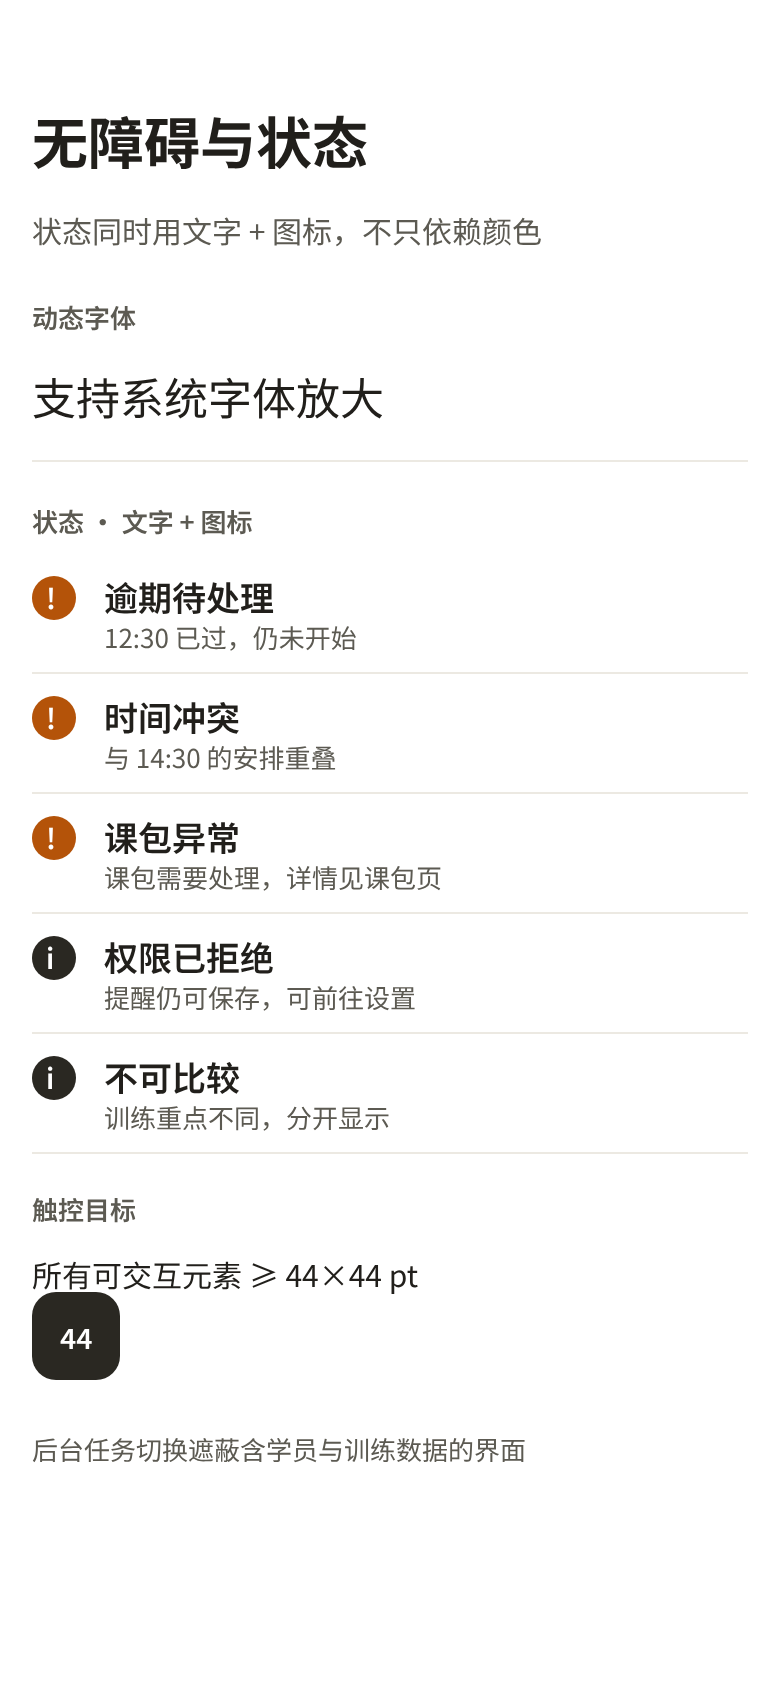
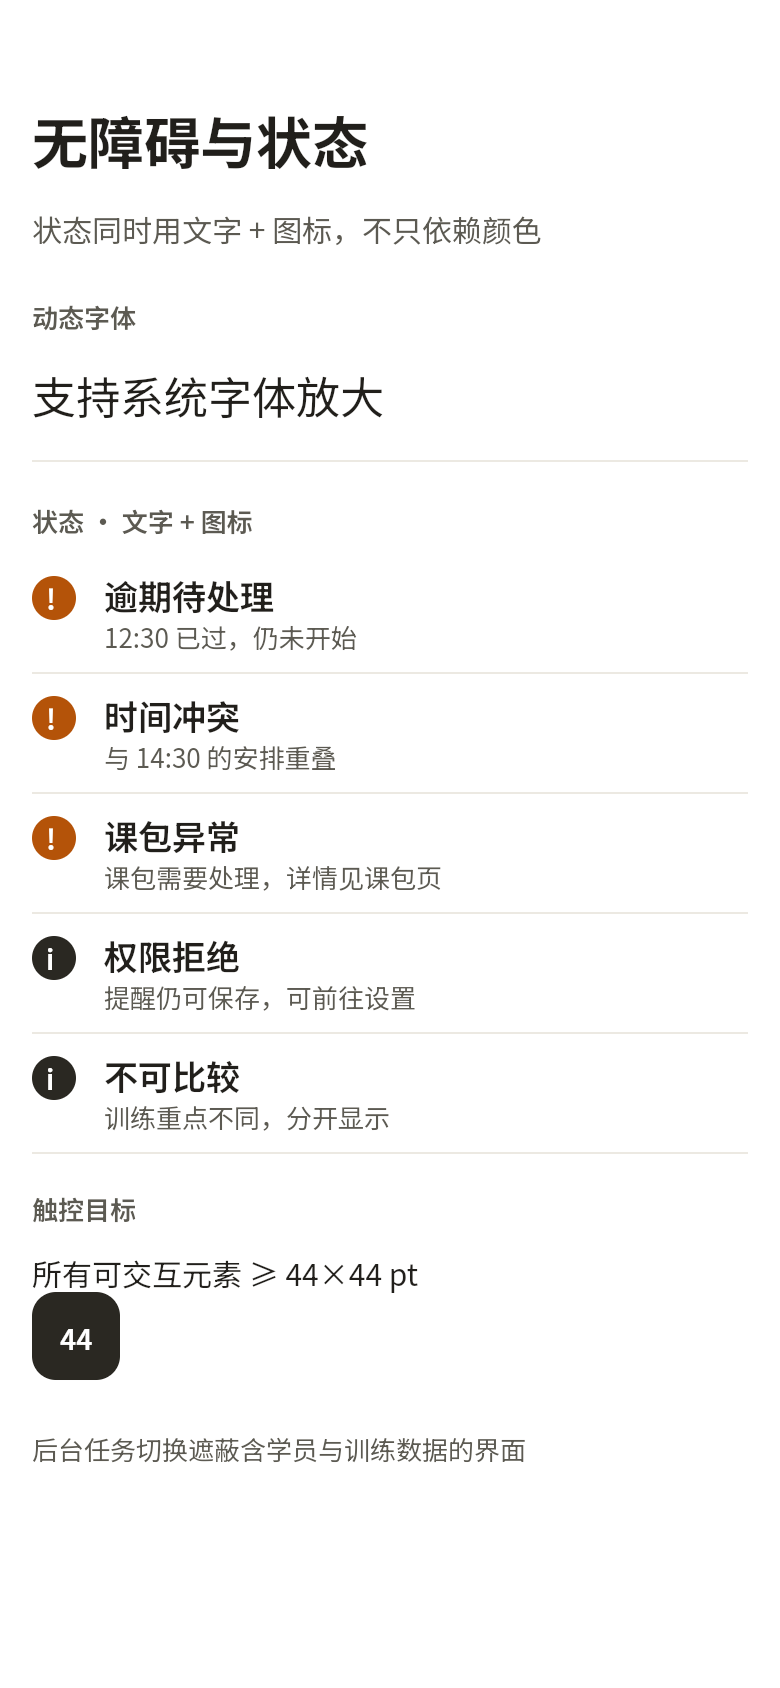
design: unify permission status copy to 权限拒绝 on boards 09, D15d, S2·43 (S2-D23)
README §7.2 and iOS status.permissionDenied use 权限拒绝; three boards
drifted to 权限已拒绝. Owner chose the README copy. Re-exported the
three PNGs (sizes unchanged), updated the S2·43 layers entry and the
T002 hashes.

diff --git a/android/docs/s2/T002.md b/android/docs/s2/T002.md
@@ -7,7 +7,7 @@ Penpot 文件「M1-B G5 Design」、页 Foundations。派生前快照：`before-
 | 今日 S2（核心屏） | `S2 · 01 今日`（`ce116b3f-610d-80ef-8008-f67170469d5b`） | S1 派生板 `8724aff1…785bcb` + D15a `b48ddf15…5db34a` | 以 S1 派生板为底，加回 D15a 的「＋」「日历」「设置」页头图标、下一节课、其余今日课程、已处理行；三段整体按 `DS-PAGE-FLOW` 内容块间距 `space.4` 放在主卡下方 16（主卡底 318 → 区段标签 334），段内相对位置沿用 D15a | C |
 | 课程操作面板 | `S2 · 18 课程操作面板`（`fdf3c3ea-1297-80d1-8008-f673276ce7fe`） | D1 `fd553d1c…e00464` | 背景换成 S2 今日；面板上移一行（52），在「取消本次」下新增「删除误建」行（与「取消本次」同为 `#d4442a`，带「需二次确认」），对应 FR-008 / T041 | **B，待负责人审** |
 | 设置 | `S2 · 42 设置`（`fdf3c3ea-1297-80d1-8008-f6736a4ef4bf`） | D15c `b48ddf15…b9e634` | 只留通知行（S2-D01：设置页 S2 只做提醒部分），去掉备份与恢复、关于、源代码 | C |
-| 设置 · 通知被拒 | `S2 · 43 设置 · 通知权限已拒绝`（`fdf3c3ea-1297-80d1-8008-f6737036c06a`） | D15d `b48ddf15…1b9ba9` | 同上；保留「权限已拒绝」状态与「前往设置」入口（FR-010） | C |
+| 设置 · 通知被拒 | `S2 · 43 设置 · 通知权限已拒绝`（`fdf3c3ea-1297-80d1-8008-f6737036c06a`） | D15d `b48ddf15…1b9ba9` | 同上；保留「权限拒绝」状态与「前往设置」入口（FR-010；2026-11-19 文案统一为 README §7.2「权限拒绝」，S2-D23） | C |
 | 课程日历（核心屏） | D5 `fd553d1c-43a7-80f6-8008-b22853e2ef00` | — | 无 S3/S4 内容，原样使用 | — |
 | 新建安排（核心屏） | D4 `fd553d1c-43a7-80f6-8008-b22816c49b59` | — | 同上 | — |
 | 编辑范围 | D4b `fd553d1c-43a7-80f6-8008-b228538b8f03` | — | 同上 | — |
@@ -25,13 +25,13 @@ D5、D4 当前导出与仓库已批准 PNG（`25-calendar-v2.png`、`23-new-appo
[12 lines of base64/hex data omitted]
 
 PNG 为 780×1688（2x）；layers 为相对画板原点的 pt。`*.map.json`（selector 与例外）由 Phase 4 实现各核心屏时与 conformance 测试一起建立，做法同 S1。
 

diff --git a/design/design-system/README.md b/design/design-system/README.md
@@ -355,6 +355,8 @@ Phase 6.5 人工审核（T063）发现 8 个核心界面需要结构调整，并
 
 规则：需要教练处理的状态用 `status.warning` 加「!」；只是信息提示的状态用 `action.primary` 加「i」。09 屏新增的两行已回填 Penpot（快照 `before-status-mapping-09 2026-09-23` → `status-mapping-09 2026-09-23 (课包异常 !, 不可比较 i)`），并重新导出 `09-accessibility.png`（尺寸不变）。
 
+2026-11-19（产品负责人，S2-D23）：09、D15d、S2·43 三块画板上的状态文字由「权限已拒绝」统一为本表的「权限拒绝」，与 iOS `status.permissionDenied` 一致；Penpot 快照 `before 权限拒绝 status copy fix (09 / D15d / S2·43) 2026-11-19` → `权限拒绝 status copy fix (09 / D15d / S2·43) 2026-11-19`，重新导出 `09-accessibility.png`、`43-settings-notification-denied.png`、`43-settings-notification-denied-s2.png`（尺寸不变）。
+
 ## 8. 组件规格（来自 17 屏实测）
 
 | 组件 | 规格 |
